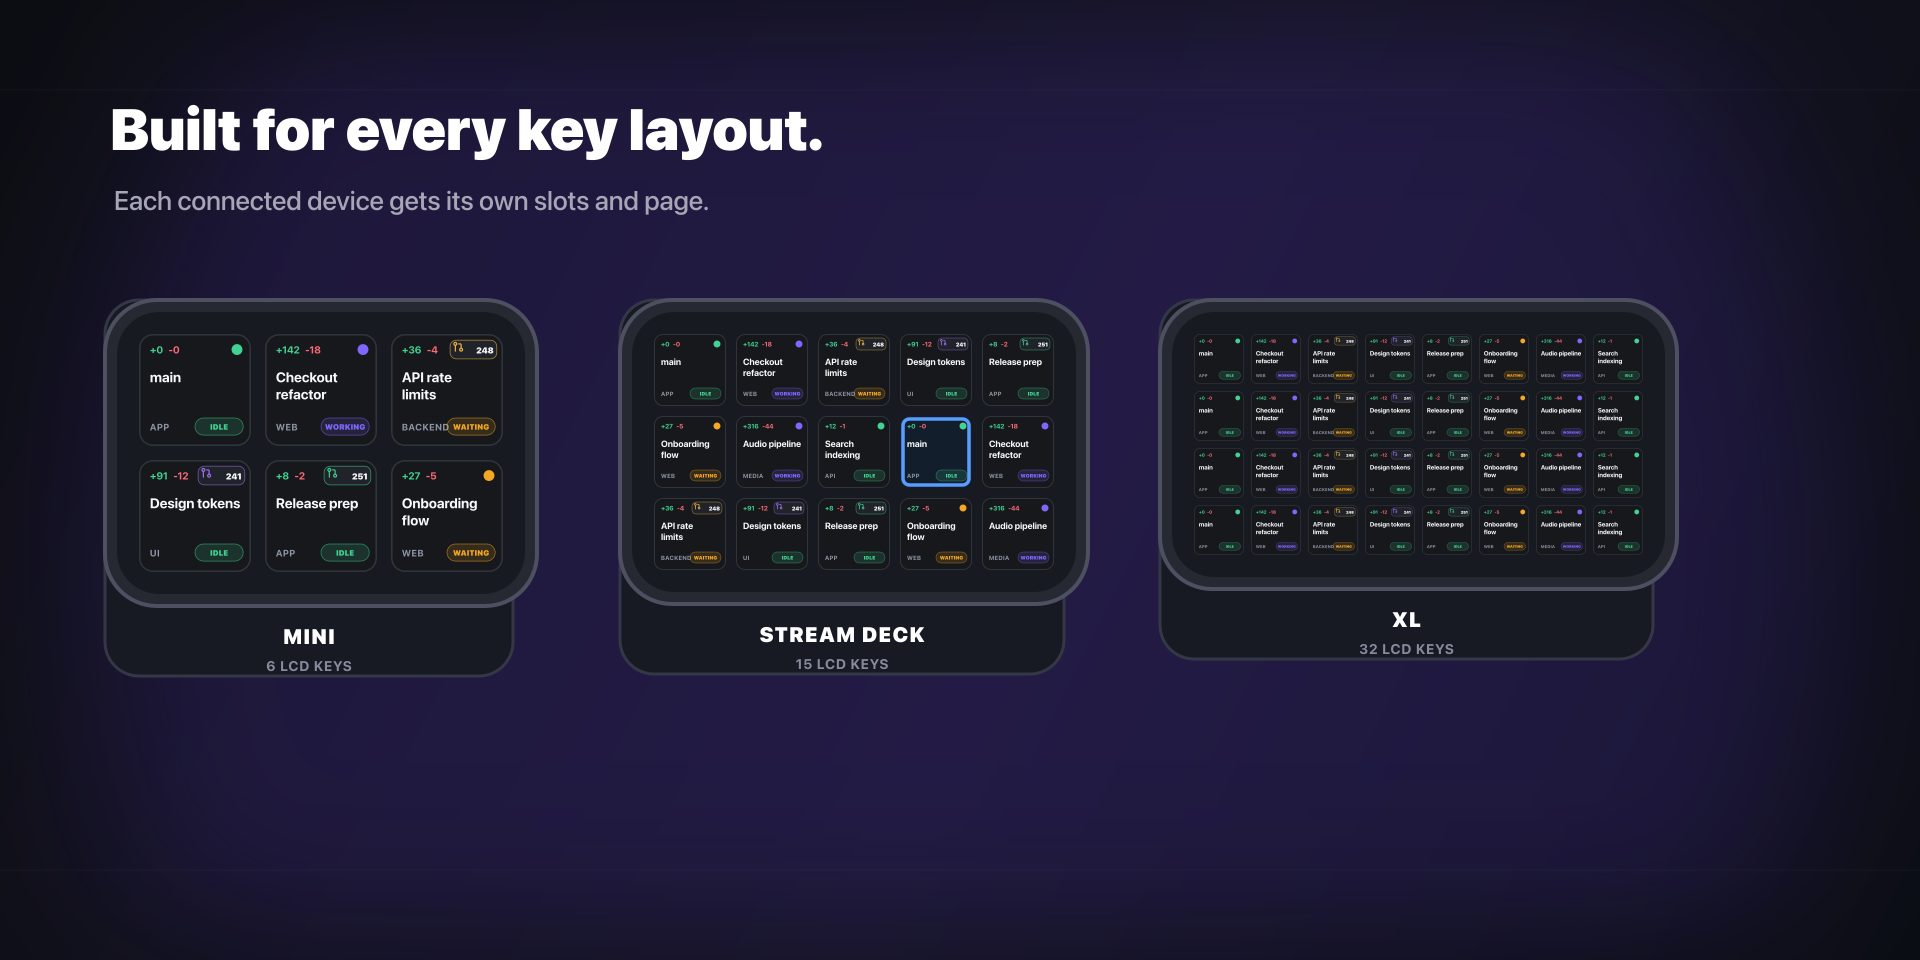
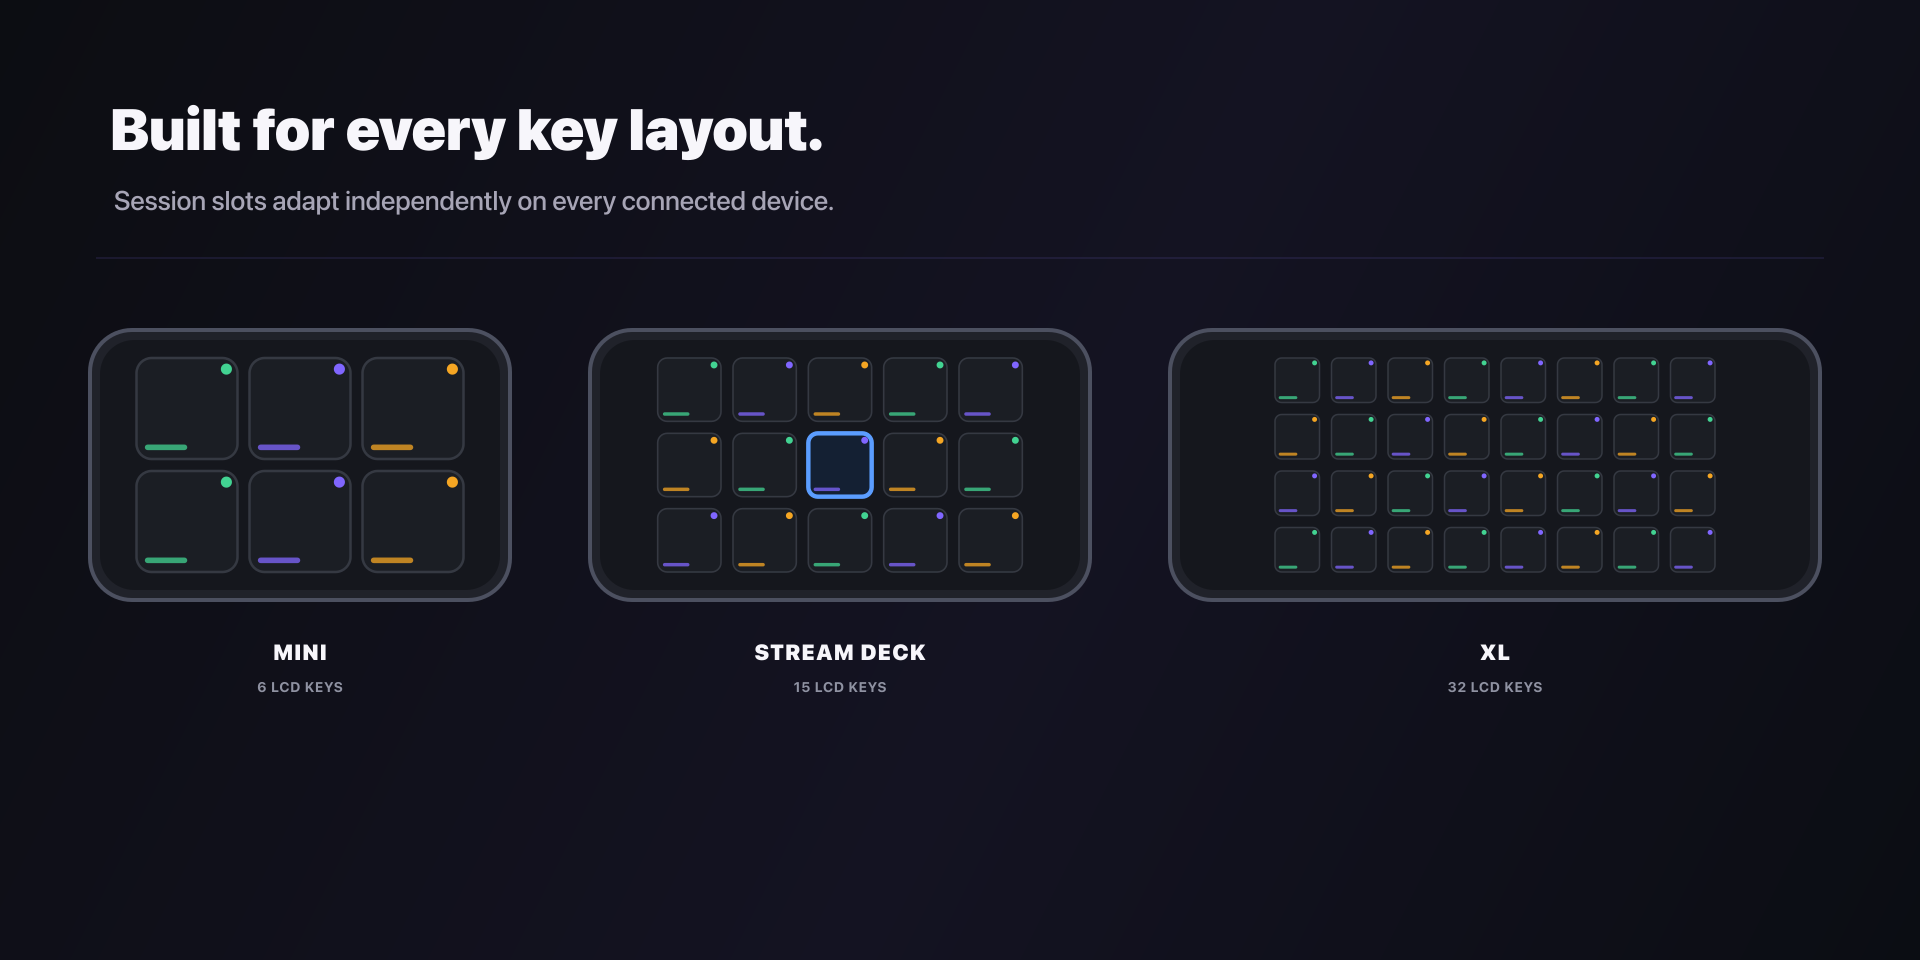
Refine Marketplace media and key spacing

diff --git a/scripts/generate-marketplace-assets.ts b/scripts/generate-marketplace-assets.ts
@@ -5,7 +5,6 @@ import path from "node:path";
 
 import {
 	renderDeleteConfirmationImage,
-	renderNavigationImage,
 	renderSessionImage,
 } from "../src/sessions/session-image";
 import type { AgentState, PullRequest, SuperSession } from "../src/sessions/session";
@@ -25,9 +24,6 @@ if (!converter) {
 
 await mkdir(sourceDirectory, { recursive: true });
 
-const back = dataUrl(
-	await readFile("com.freak4pc.super-engineering.sdPlugin/imgs/actions/back/key.svg"),
-);
 const appIcon = dataUrl(await readFile("marketplace/media/app-icon.png"), "image/png");
 
 const sessions = [
@@ -53,7 +49,6 @@ const sessions = [
 	session("Search indexing", "API", "idle", 12, 1),
 ];
 const sessionImages = sessions.map((value) => renderSessionImage(value));
-const nextImage = renderNavigationImage(1, 0, 3, true);
 
 // The app icon, Marketplace thumbnail, and GitHub social preview use curated campaign artwork.
 // Derive the README crop without modifying that source, then generate reproducible screenshots.
@@ -89,10 +84,9 @@ async function generateReadmeIcon(): Promise<void> {
 
 function liveGridSvg(): string {
 	return canvas(`
-		${glow(1_400, 470, 720, "#2ccf9f", .12)}
-		${text("The sidebar, live on your desk.", 110, 150, 58, "#ffffff", 820)}
+		${text("The sidebar, live on your desk.", 110, 150, 58, "#f7f6fb", 820)}
 		${text("Titles and order come directly from super.engineering.", 114, 210, 27, "#a7a5b6", 500)}
-		${deck(180, 300, 4, 2, 210, 28, [
+		${deck(130, 310, 4, 2, 200, 24, [
 			sessionImages[0],
 			sessionImages[1],
 			sessionImages[2],
@@ -102,20 +96,19 @@ function liveGridSvg(): string {
 			sessionImages[6],
 			sessionImages[7],
 		])}
-		${feature("LIVE", "Agent and PR changes update automatically", 1_210, 350, "#49e2a5")}
-		${feature("FOCUS", "One press activates the exact session", 1_210, 485, "#7d69ff")}
-		${feature("MATCH", "Selection follows changes made in the App", 1_210, 620, "#5b9dff")}
+		${feature("LIVE UPDATES", "Agent and PR state", 1_210, 390, "#49e2a5")}
+		${feature("ONE-KEY FOCUS", "Press to activate", 1_210, 535, "#8a72ff")}
+		${feature("ALWAYS IN SYNC", "Selection follows the App", 1_210, 680, "#5b9dff")}
 	`);
 }
 
 function deviceLayoutsSvg(): string {
 	return canvas(`
-		${glow(960, 560, 880, "#6f45ff", .16)}
-		${text("Built for every key layout.", 110, 150, 58, "#ffffff", 820)}
-		${text("Each connected device gets its own slots and page.", 114, 210, 27, "#a7a5b6", 500)}
-		${layoutCard("MINI", 105, 300, 3, 2, 112, 14)}
-		${layoutCard("STREAM DECK", 620, 300, 5, 3, 72, 10, 8)}
-		${layoutCard("XL", 1_160, 300, 8, 4, 50, 7)}
+		${text("Built for every key layout.", 110, 150, 58, "#f7f6fb", 820)}
+		${text("Session slots adapt independently on every connected device.", 114, 210, 27, "#a7a5b6", 500)}
+		${layoutDevice("MINI", "6 LCD KEYS", 90, 330, 420, 270, 3, 2)}
+		${layoutDevice("STREAM DECK", "15 LCD KEYS", 590, 330, 500, 270, 5, 3, 7)}
+		${layoutDevice("XL", "32 LCD KEYS", 1_170, 330, 650, 270, 8, 4)}
 	`);
 }
 
@@ -127,14 +120,13 @@ function sessionStatesSvg(): string {
 	const deleting = renderDeleteConfirmationImage(sessions[5]);
 
 	return canvas(`
-		${glow(960, 620, 900, "#ff7a8c", .08)}
-		${text("Everything important, at a glance.", 110, 150, 58, "#ffffff", 820)}
+		${text("Everything important, at a glance.", 110, 150, 58, "#f7f6fb", 820)}
 		${text("Status is readable before you reach for the key.", 114, 210, 27, "#a7a5b6", 500)}
-		${stateCard(waiting, "WAITING", "Needs your attention", 125, 325, "#f5a623")}
-		${stateCard(working, "WORKING", "Agent is running", 475, 325, "#8066ff")}
-		${stateCard(merged, "MERGED", "PR lifecycle included", 825, 325, "#a371f7")}
-		${stateCard(selected, "SELECTED", "Strong active frame", 1_175, 325, "#5b9dff")}
-		${stateCard(deleting, "SAFE DELETE", "Hold, then confirm", 1_525, 325, "#ff6675")}
+		${stateExample(waiting, "WAITING", "Needs attention", 102, 320, "#f5a623")}
+		${stateExample(working, "WORKING", "Agent running", 454, 320, "#8066ff")}
+		${stateExample(merged, "MERGED", "PR lifecycle", 806, 320, "#a371f7")}
+		${stateExample(selected, "SELECTED", "Active session", 1_158, 320, "#5b9dff")}
+		${stateExample(deleting, "SAFE DELETE", "Hold, then tap", 1_510, 320, "#ff6675")}
 	`);
 }
 
@@ -146,10 +138,9 @@ function canvas(content: string): string {
 				<stop offset=".55" stop-color="#141322"/>
 				<stop offset="1" stop-color="#0b0d13"/>
 			</linearGradient>
-			<filter id="blur"><feGaussianBlur stdDeviation="90"/></filter>
 		</defs>
 		<rect width="${WIDTH}" height="${HEIGHT}" fill="url(#background)"/>
-		<path d="M0 90h1920M0 870h1920" stroke="#ffffff" stroke-opacity=".035"/>
+		<path d="M96 258h1728" stroke="#8a72ff" stroke-opacity=".22"/>
 		<style>text { font-family: -apple-system, BlinkMacSystemFont, "SF Pro Display", Arial, sans-serif; }</style>
 		${content}
 	</svg>`;
@@ -186,35 +177,68 @@ function deck(
 	</g>`;
 }
 
-function layoutCard(
+function layoutDevice(
 	label: string,
+	detail: string,
 	x: number,
 	y: number,
+	width: number,
+	height: number,
 	columns: number,
 	rows: number,
-	keySize: number,
-	gap: number,
 	selectedIndex?: number,
 ): string {
-	const padding = 22;
-	const width = columns * keySize + (columns - 1) * gap + padding * 2;
-	const height = rows * keySize + (rows - 1) * gap + padding * 2;
-	const images = Array.from(
-		{ length: columns * rows },
-		(_, index) => renderSessionImage({
-			...sessions[index % sessions.length],
-			isSelected: index === selectedIndex,
-		}),
+	const padding = 28;
+	const gap = 12;
+	const keySize = Math.min(
+		(width - padding * 2 - gap * (columns - 1)) / columns,
+		(height - padding * 2 - gap * (rows - 1)) / rows,
 	);
+	const gridWidth = columns * keySize + (columns - 1) * gap;
+	const gridHeight = rows * keySize + (rows - 1) * gap;
+	const startX = x + (width - gridWidth) / 2;
+	const startY = y + (height - gridHeight) / 2;
+	const keys = Array.from({ length: columns * rows }, (_, index) => {
+		const column = index % columns;
+		const row = Math.floor(index / columns);
+		return layoutKey(
+			startX + column * (keySize + gap),
+			startY + row * (keySize + gap),
+			keySize,
+			index,
+			index === selectedIndex,
+		);
+	}).join("");
 	return `<g>
-		<rect x="${x}" y="${y}" width="${width}" height="${height + 94}" rx="34" fill="#171923" stroke="#343746" stroke-width="3"/>
-		${deck(x, y, columns, rows, keySize, gap, images)}
-		${text(label, x + width / 2, y + height + 62, 21, "#ffffff", 800, 1.5, "middle")}
-		${text(`${columns * rows} LCD KEYS`, x + width / 2, y + height + 89, 14, "#888b9d", 650, 1, "middle")}
+		<rect x="${x}" y="${y}" width="${width}" height="${height}" rx="42" fill="#20222a" stroke="#4c5060" stroke-width="4"/>
+		<rect x="${x + 10}" y="${y + 10}" width="${width - 20}" height="${height - 20}" rx="34" fill="#15171d"/>
+		${keys}
+		${text(label, x + width / 2, 660, 22, "#f7f6fb", 820, 1.4, "middle")}
+		${text(detail, x + width / 2, 692, 14, "#8f92a2", 700, 1, "middle")}
 	</g>`;
 }
 
-function stateCard(
+function layoutKey(
+	x: number,
+	y: number,
+	size: number,
+	index: number,
+	isSelected: boolean,
+): string {
+	const stateColors = ["#42d392", "#8066ff", "#f5a623"];
+	const stateColor = stateColors[index % stateColors.length];
+	const inset = Math.max(2, size * .055);
+	const radius = Math.max(5, size * .15);
+	const markerRadius = Math.max(2.5, size * .055);
+	const selectedStroke = Math.max(3, size * .07);
+	return `<g>
+		<rect x="${x}" y="${y}" width="${size}" height="${size}" rx="${radius}" fill="${isSelected ? "#142033" : "#1b1e24"}" stroke="${isSelected ? "#5b9dff" : "#353942"}" stroke-width="${isSelected ? selectedStroke : Math.max(1.5, size * .025)}"/>
+		<circle cx="${x + size - inset * 2}" cy="${y + inset * 2}" r="${markerRadius}" fill="${stateColor}"/>
+		<rect x="${x + inset * 1.5}" y="${y + size - inset * 2.6}" width="${size * .42}" height="${Math.max(3, size * .055)}" rx="${Math.max(1.5, size * .0275)}" fill="${stateColor}" fill-opacity=".75"/>
+	</g>`;
+}
+
+function stateExample(
 	source: string,
 	label: string,
 	description: string,
@@ -223,10 +247,9 @@ function stateCard(
 	color: string,
 ): string {
 	return `<g>
-		<rect x="${x - 28}" y="${y - 28}" width="300" height="486" rx="34" fill="#171923" stroke="#343746" stroke-width="3"/>
 		${image(source, x, y, 244, 244)}
-		${text(label, x + 122, y + 318, 21, color, 850, 1.5, "middle")}
-		${multiline(description, x + 122, y + 360, 18, "#a7a5b6", 500, 26, "middle")}
+		${text(label, x + 122, y + 322, 21, color, 850, 1.5, "middle")}
+		${text(description, x + 122, y + 366, 18, "#aaa7b7", 540, 0, "middle")}
 	</g>`;
 }
 
@@ -240,7 +263,7 @@ function feature(
 	return `<g>
 		<circle cx="${x}" cy="${y - 10}" r="8" fill="${color}"/>
 		${text(label, x + 28, y, 19, color, 850, 1.6)}
-		${text(description, x + 28, y + 42, 25, "#ffffff", 650)}
+		${text(description, x + 28, y + 42, 25, "#f7f6fb", 650)}
 	</g>`;
 }
 
@@ -259,34 +282,6 @@ function text(
 	anchor: "start" | "middle" = "start",
 ): string {
 	return `<text x="${x}" y="${y}" fill="${color}" font-size="${size}" font-weight="${weight}" letter-spacing="${letterSpacing}" text-anchor="${anchor}">${escapeXml(value)}</text>`;
-}
-
-function multiline(
-	value: string,
-	x: number,
-	y: number,
-	size: number,
-	color: string,
-	weight: number,
-	lineHeight: number,
-	anchor: "start" | "middle",
-): string {
-	const words = value.split(" ");
-	const midpoint = Math.ceil(words.length / 2);
-	return `<text x="${x}" y="${y}" fill="${color}" font-size="${size}" font-weight="${weight}" text-anchor="${anchor}">
-		<tspan x="${x}">${escapeXml(words.slice(0, midpoint).join(" "))}</tspan>
-		<tspan x="${x}" dy="${lineHeight}">${escapeXml(words.slice(midpoint).join(" "))}</tspan>
-	</text>`;
-}
-
-function glow(
-	x: number,
-	y: number,
-	radius: number,
-	color: string,
-	opacity: number,
-): string {
-	return `<circle cx="${x}" cy="${y}" r="${radius}" fill="${color}" opacity="${opacity}" filter="url(#blur)"/>`;
 }
 
 async function generate(name: string, svg: string): Promise<void> {

diff --git a/src/sessions/session-image.ts b/src/sessions/session-image.ts
@@ -4,7 +4,7 @@ const BACKGROUND = "#16181c";
 const BORDER = "#30343b";
 const MUTED = "#8d96a5";
 const TEXT = "#f7f8fa";
-const PROJECT_CHARACTER_LIMIT = 9;
+const PROJECT_CHARACTER_LIMIT = 7;
 const TITLE_CHARACTER_LIMIT = 14;
 
 export function renderSessionImage(
@@ -30,9 +30,9 @@ export function renderSessionImage(
 		${renderTopRightStatus(session, statusColor)}
 		<text x="14" y="62" fill="${TEXT}" font-size="18" font-weight="700">${escapeXml(firstLine)}</text>
 		${secondLine ? `<text x="14" y="84" fill="${TEXT}" font-size="18" font-weight="700">${escapeXml(secondLine)}</text>` : ""}
-		<text x="14" y="124" fill="${MUTED}" font-size="12" font-weight="700" letter-spacing=".8">${escapeXml(truncate(session.projectName.toUpperCase(), PROJECT_CHARACTER_LIMIT))}</text>
-		<rect x="72" y="108" width="62" height="22" rx="11" fill="${statusColor}" fill-opacity=".14" stroke="${statusColor}" stroke-opacity=".55"/>
-		<text x="103" y="123" text-anchor="middle" fill="${statusColor}" font-size="10" font-weight="800" letter-spacing=".4">${statusLabel}</text>
+		<text x="14" y="123" fill="${MUTED}" font-size="10" font-weight="750" letter-spacing=".5">${escapeXml(truncate(session.projectName.toUpperCase(), PROJECT_CHARACTER_LIMIT))}</text>
+		<rect x="78" y="108" width="56" height="22" rx="11" fill="${statusColor}" fill-opacity=".14" stroke="${statusColor}" stroke-opacity=".55"/>
+		<text x="106" y="123" text-anchor="middle" fill="${statusColor}" font-size="9" font-weight="800" letter-spacing=".35">${statusLabel}</text>
 	`);
 }
 

diff --git a/tests/session-image.test.ts b/tests/session-image.test.ts
@@ -13,7 +13,9 @@ test("session artwork bounds long titles and project names", () => {
 	assert.doesNotMatch(markup, /extraordinarilylongword/);
 	assert.match(markup, /extraordinari…/);
 	assert.match(markup, /followed by…/);
-	assert.match(markup, /A-VERY-L…/);
+	assert.match(markup, /A-VERY…/);
+	assert.match(markup, /<text x="14" y="123"[^>]*font-size="10"/);
+	assert.match(markup, /<rect x="78" y="108" width="56" height="22"/);
 });
 
 test("session artwork escapes XML and removes invalid control characters", () => {

diff --git a/marketplace/metadata.md b/marketplace/metadata.md
@@ -42,9 +42,9 @@ telemetry, and uses only public Stream Deck SDK APIs.
 
 ## Release notes
 
-Initial release with live sidebar sessions, one-press activation, safe worktree deletion, agent and
-pull request states, connection diagnostics, adaptive multi-device layouts, and independent
-per-device pagination.
+Initial Marketplace release with live sidebar sessions, one-press activation, safe worktree
+deletion, agent and pull request states, connection diagnostics, adaptive multi-device layouts, and
+independent per-device pagination. Version 1.0.1 improves session-key spacing and legibility.
 
 ## Additional links
 
@@ -63,8 +63,8 @@ per-device pagination.
 | App icon | `media/app-icon.png` (288 × 288 PNG) |
 | Thumbnail | `media/thumbnail.png` (1920 × 960 PNG) |
 | Gallery item 1 | `media/gallery-live-grid.png` (1920 × 960 PNG) |
-| Gallery item 2 | `media/gallery-device-layouts.png` (1920 × 960 PNG) |
-| Gallery item 3 | `media/gallery-session-states.png` (1920 × 960 PNG) |
+| Gallery item 2 | `media/gallery-session-states.png` (1920 × 960 PNG) |
+| Gallery item 3 | `media/gallery-device-layouts.png` (1920 × 960 PNG) |
 
 For the first release, leave automatic publication after approval off so the approved listing can
 receive one final visual and link check before it goes live.

diff --git a/RELEASE.md b/RELEASE.md
@@ -39,6 +39,8 @@
 - [ ] Check that **super.engineering** is available as a Marketplace plugin name.
 - [x] Create a 288 × 288 Marketplace App icon.
 - [x] Create a 1920 × 960 thumbnail and three gallery images.
+- [x] Inspect media at full resolution for text collisions and boundary overflows.
+- [x] Confirm repeated device frames and captions share common baselines.
 - [x] Prepare description, release notes, requirements, and additional links in `marketplace/metadata.md`.
 - [x] Use `CHANGELOG.md` for release notes.
 - [ ] Upload the validated `.streamDeckPlugin` in Maker Console and complete review metadata.

diff --git a/CHANGELOG.md b/CHANGELOG.md
@@ -1,5 +1,10 @@
 # Changelog
 
+## 1.0.1 — 2026-07-28
+
+- Prevent project names and agent-state badges from colliding on session keys.
+- Improve key legibility with clearer spacing and typography.
+
 ## 1.0.0 — 2026-07-23
 
 - Mirror visible sessions in exact super.engineering sidebar order using `sc` API v21.
